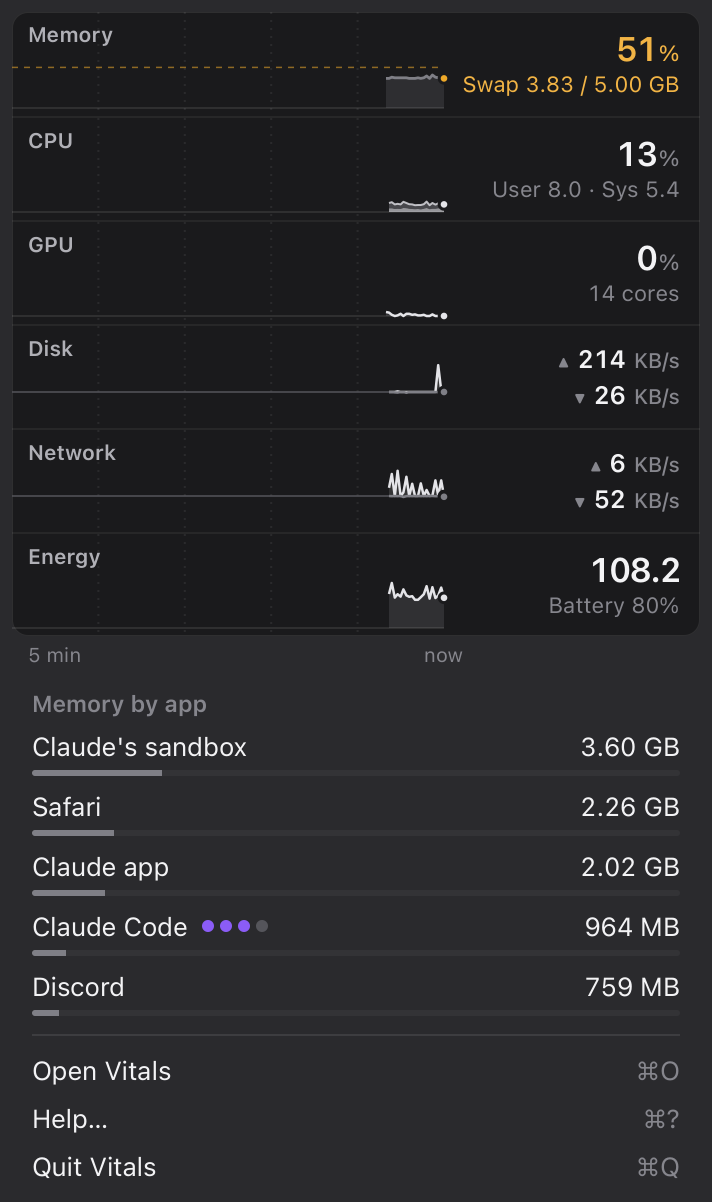
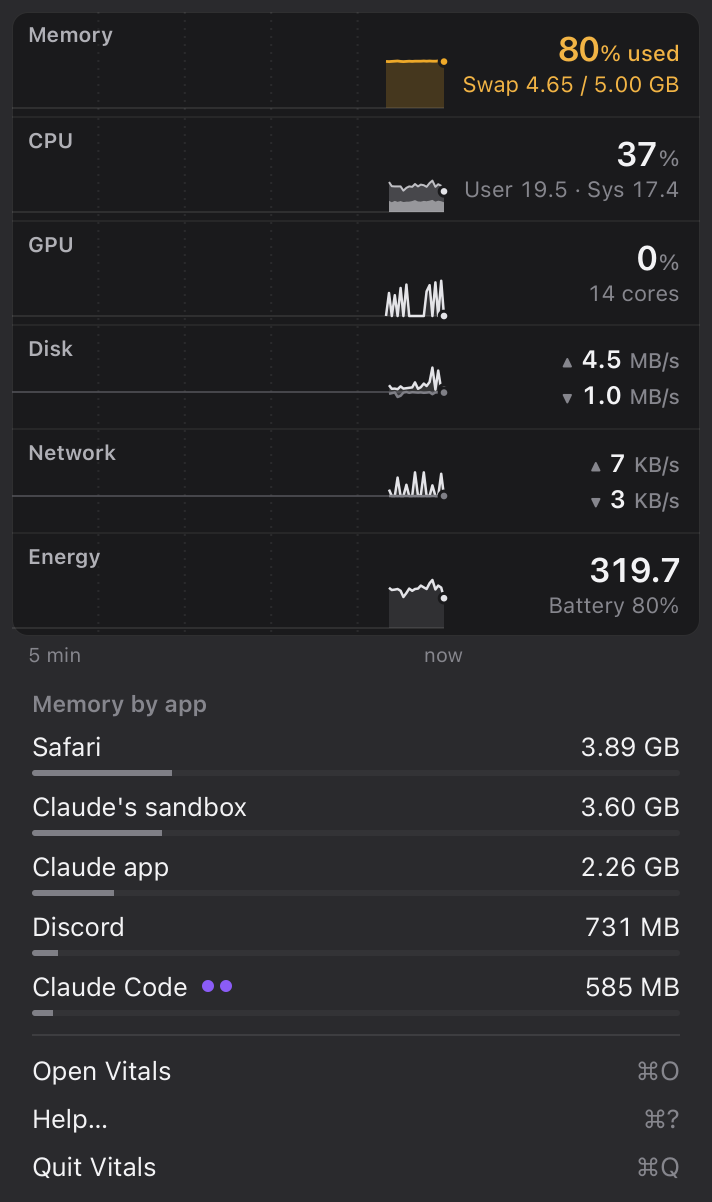
Shots: memory shows used %; handoff

diff --git a/HANDOFF.md b/HANDOFF.md
@@ -134,6 +134,9 @@ _Last updated 2026-10-19 ~01:15 UTC by the Mac session._
   big number. Swift adds `live.memUsedPct` (memory.usedBytes / totalBytes × 100, one decimal, same 150 × 2 s ring as
   the rest); DATA.md's live block has it. The pages are the cloud thread's. The menu bar icon still goes by pressure/swap.
 - Checked: `--dump` gave memUsedPct [78.8, 78.9] with 2 points, matching usedBytes / totalBytes = 78.9%.
+- The cloud's pages (0937197) show it: Memory's big number and chart are used %, pressure moved into the list.
+  Installed 2026-10-19 ~03:35Z; `--render --warm 40` of window and popover, light and dark, show "80% Used · 14.38 GB"
+  with a flat ~80% line and no page errors; committed over `docs/shots/strip-*.png`. Vitals still at window x 1100.
 
 ## Done
 - `Package.swift` (SwiftPM, macOS 14, executable "Vitals"), `Support/Info.plist` (LSUIElement,
